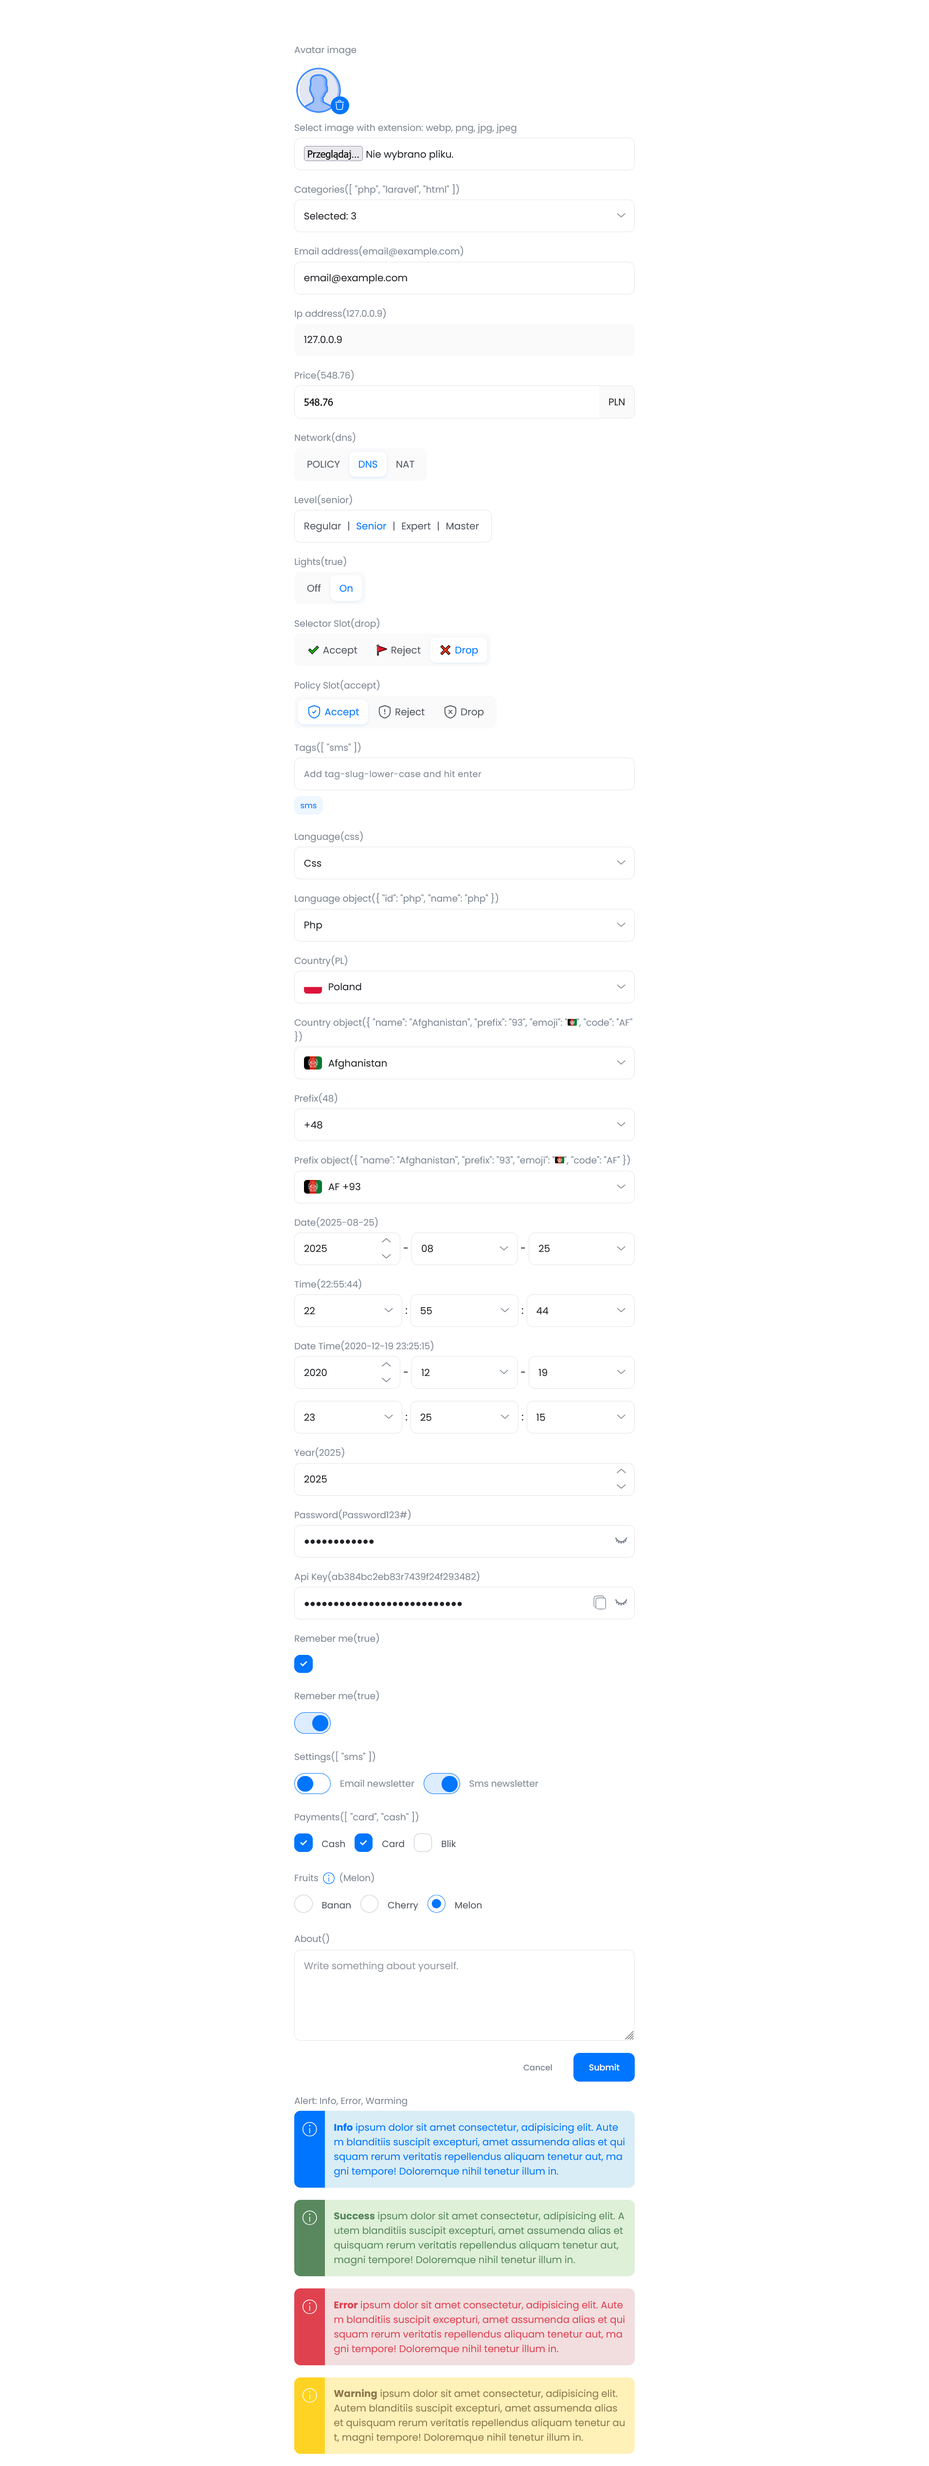
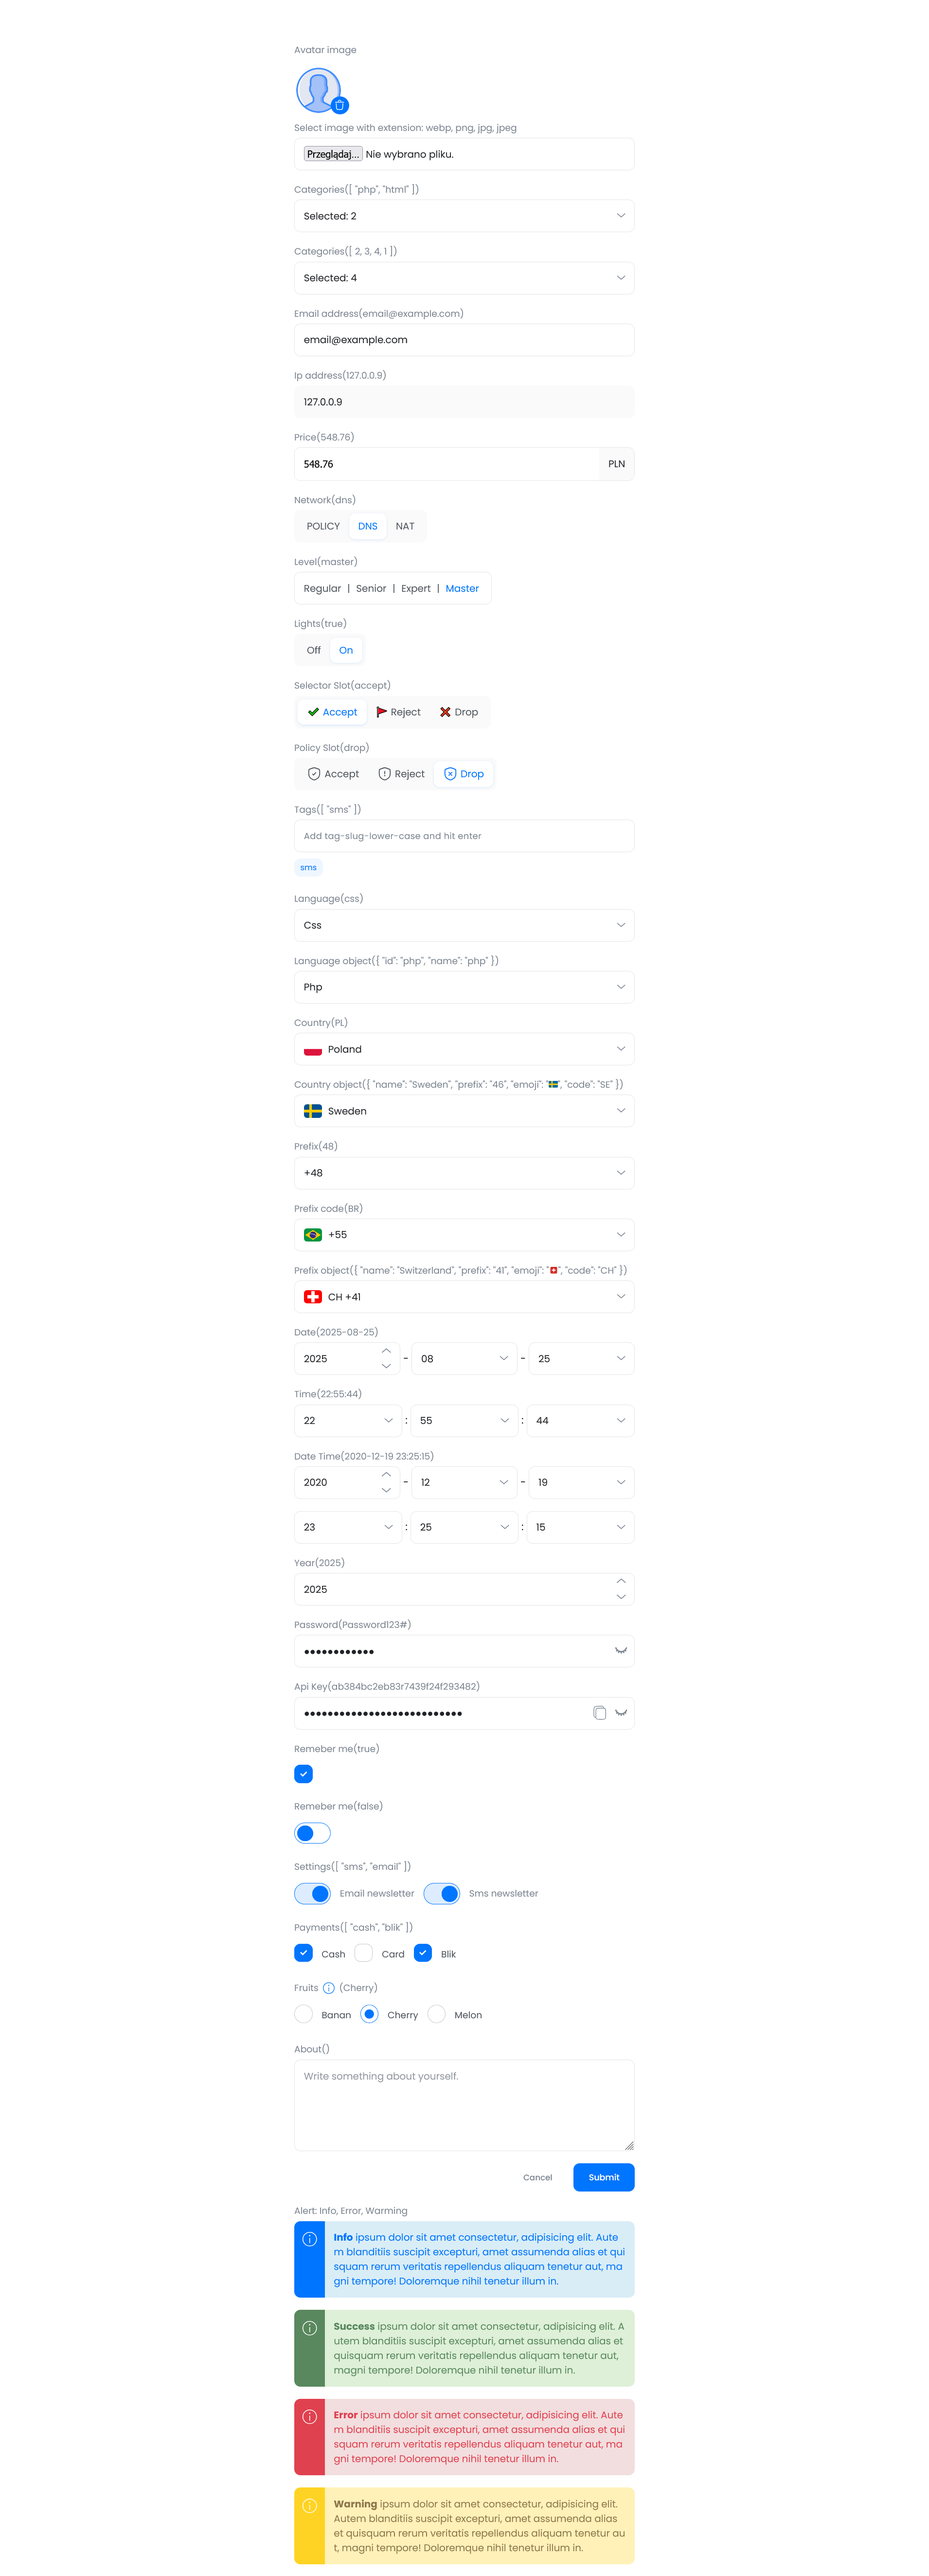
Prefix with Code

diff --git a/inputs/PrefixCode.vue b/inputs/PrefixCode.vue
@@ -1,0 +1,93 @@
+<script setup>
+import { ref } from 'vue';
+import IconCheckmark from './icons/IconCheckmark.vue';
+import IconArrowDown from './icons/IconArrowDown.vue';
+import IconArrowUp from './icons/IconArrowUp.vue';
+import country from './json/country.json';
+
+const emits = defineEmits(['change']);
+const model = defineModel({ required: true });
+const props = defineProps({
+	name: { type: String, default: 'prefix' },
+	class: { type: [String, Array, Object] },
+	placeholder: { type: String, default: 'Choose' },
+	search_error: { type: String, default: 'No options found' },
+});
+
+let filtered_options = ref(country);
+let search_check = ref(false);
+let search = ref('');
+
+function toggle(i, e) {
+	closeAll();
+	e.currentTarget.classList.toggle('select-opened');
+}
+
+function update(option) {
+	search.value = '';
+	filtered_options.value = country;
+	model.value = option.code;
+	emits('change', option.code);
+	closeAll();
+}
+
+function code(code) {
+	let item = country.filter((o) => {
+		return o.code.toLowerCase() == code.toLowerCase();
+	});
+	return item[0].prefix ?? '00';
+}
+
+function filterOptions(e) {
+	filtered_options.value = country.filter((o) => {
+		return o.name.toLowerCase().startsWith(e.target.value.toLowerCase());
+	});
+	search_check.value = filtered_options.value.length == 0 ? true : false;
+}
+
+function closeAll() {
+	let all = document.querySelectorAll('.select-opened');
+	all.forEach((i) => {
+		i.classList.remove('select-opened');
+	});
+}
+</script>
+<template>
+	<div class="form-input-wrapper">
+		<div class="form-input-event" @click.stop="toggle('div', $event)">
+			<div class="form-select" :class="props.class">
+				<div class="form-select-selected">
+					<img class="form-select-option-flag-selected" :src="'/flags/' + model + '.webp'" onerror="this.remove()" />
+					{{ '+' + code(model) ?? props.placeholder }}
+				</div>
+			</div>
+
+			<div class="form-input-icon">
+				<IconArrowDown class="form-select-arror-down" />
+				<IconArrowUp class="form-select-arror-up" @click.stop="closeAll()" />
+			</div>
+
+			<div class="form-select-options">
+				<input type="text" v-model="search" placeholder="Search" class="form-select-options-search" @click.stop="" @keyup="filterOptions" />
+
+				<div class="form-select-options-wrapper">
+					<div class="form-select-option" @click.stop="update(option)" v-for="option in filtered_options">
+						<div class="form-select-option-icon">
+							<!-- <i v-if="model == option.prefix">✔</i> -->
+							<IconCheckmark v-if="model == option.prefix" />
+						</div>
+						<img class="form-select-option-flag" :src="'/flags/' + option.code.toLowerCase() + '.webp'" />
+						{{ '+' + option.prefix + ' ' + option.name ?? props.placeholder }}
+					</div>
+
+					<div v-if="search_check" class="form-select-option-error">{{ props.search_error }}</div>
+				</div>
+			</div>
+
+			<input type="hidden" :name="props.name" :value="model" v-if="props.name" />
+		</div>
+	</div>
+</template>
+<style>
+@import url('./css/inputs.css');
+</style>

diff --git a/TestView.vue b/TestView.vue
@@ -4,6 +4,7 @@ import SelectMultipleObject from '@/components/utils/inputs/SelectMultipleObject
 import Select from '@/components/utils/inputs/Select.vue';
 import SelectObject from '@/components/utils/inputs/SelectObject.vue';
 import SelectPrefix from '@/components/utils/inputs/Prefix.vue';
+import SelectPrefixCode from '@/components/utils/inputs/PrefixCode.vue';
 import SelectPrefixObject from '@/components/utils/inputs/PrefixObject.vue';
 import SelectCountry from '@/components/utils/inputs/Country.vue';
 import SelectCountryObject from '@/components/utils/inputs/CountryObject.vue';
@@ -72,6 +73,8 @@ let country_obj = ref({
 	emoji: '🇦🇫',
 	code: 'AF',
 });
+
+let prefix_code = ref('PL');
 
 let prefix_obj = ref({
 	name: 'Afghanistan',
@@ -177,6 +180,9 @@ function onSubmit(e) {
 
 		<Label text="Prefix">({{ prefix }})</Label>
 		<SelectPrefix v-model="prefix" name="prefix" @change="console.log($event)" />
+
+		<Label text="Prefix code">({{ prefix_code }})</Label>
+		<SelectPrefixCode v-model="prefix_code" name="prefix_code" @change="console.log($event)" />
 
 		<Label text="Prefix object">({{ prefix_obj }})</Label>
 		<SelectPrefixObject v-model="prefix_obj" name="prefix_obj" @change="console.log($event)" />
